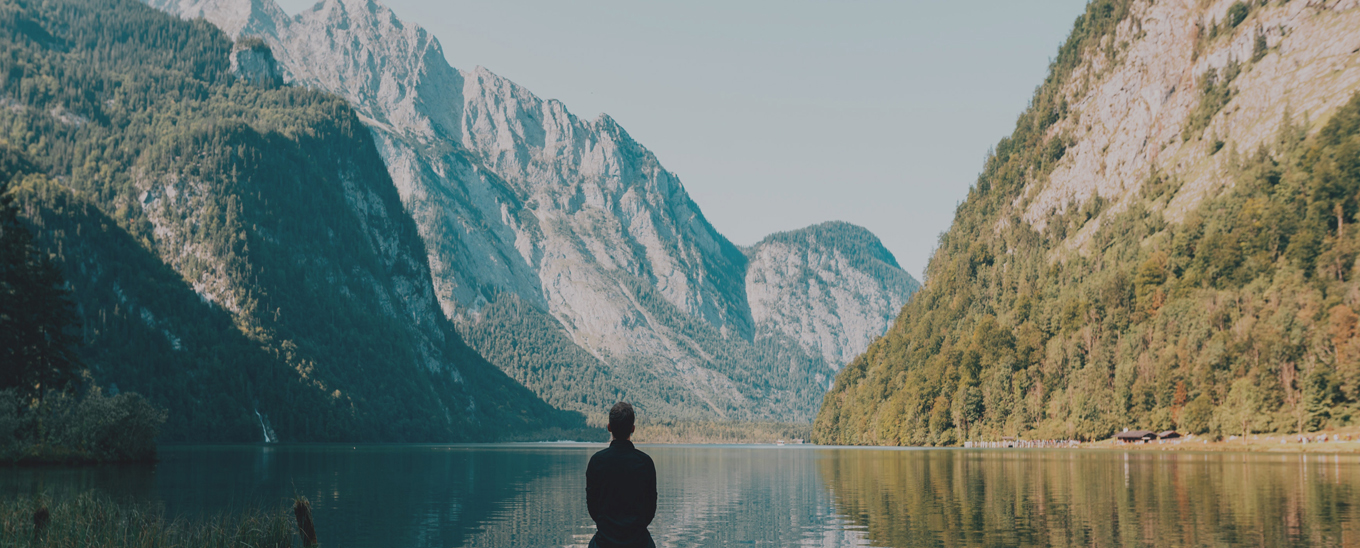
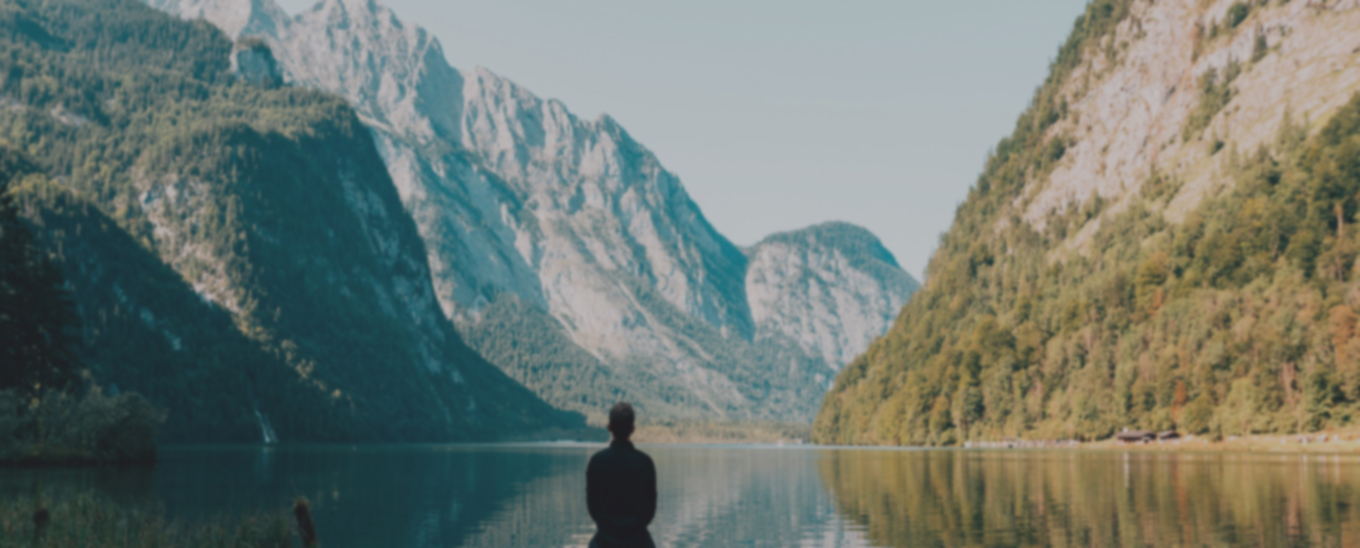
added cards and aligned them

diff --git a/Frontend/index.html b/Frontend/index.html
@@ -59,12 +59,36 @@ do give your valuable suggestions</p>
 
     <!-- social media handlers -->
        
-    <!-- <div class="row"> -->
+  
 
-      <div class="column col-lg-4 col-md-12" style="border: 2px solid green;">hello</div>
-      <div class="column col-lg-4 col-md-12" style="border: 2px solid green;">hello</div>
-      <div class="column col-lg-4 col-md-12" style="border: 2px solid green;">hello</div>
-    <!-- </div> -->
+      <div class="column col-lg-4 col-md-12" style="border: 2px solid green;">
+        <div class="card mx-auto" style="width: 18rem;">
+          <div class="card-body">
+            <h5 class="card-title"></h5>
+            <p class="card-text">Some quick example text to build on the card title and make up the bulk of the card's content.</p>
+            <a href="#" class="btn btn-primary">Go somewhere</a>
+          </div>  
+        </div>
+      </div>
+      <div class="column col-lg-4 col-md-12" style="border: 2px solid green;">
+        <div class="card mx-auto" style="width: 18rem;">
+          <div class="card-body">
+            <h5 class="card-title"></h5>
+            <p class="card-text">Some quick example text to build on the card title and make up the bulk of the card's content.</p>
+            <a href="#" class="btn btn-primary">Go somewhere</a>
+          </div>  
+        </div>
+      </div>
+      <div class="column col-lg-4 col-md-12" style="border: 2px solid green;">
+        <div class="card mx-auto" style="width: 18rem;text-align: center;">
+          <div class="card-body">
+            <h5 class="card-title"></h5>
+            <p class="card-text">Some quick example text to build on the card title and make up the bulk of the card's content.</p>
+            <a href="#" class="btn btn-primary">Go somewhere</a>
+          </div>  
+        </div>
+      </div>
+   
 
 
     <!-- picture gallery -->

diff --git a/Frontend/css/style.css b/Frontend/css/style.css
@@ -97,7 +97,7 @@ body{
   position: absolute;
   top: 8rem;
   left: 20rem;
-  background-color: rgba(0,0,0,0.56);
+  background-color: rgba(0,0,0,0.3);
 }
 
 @media only screen and (min-width:1280px) and (max-width:1290px){
